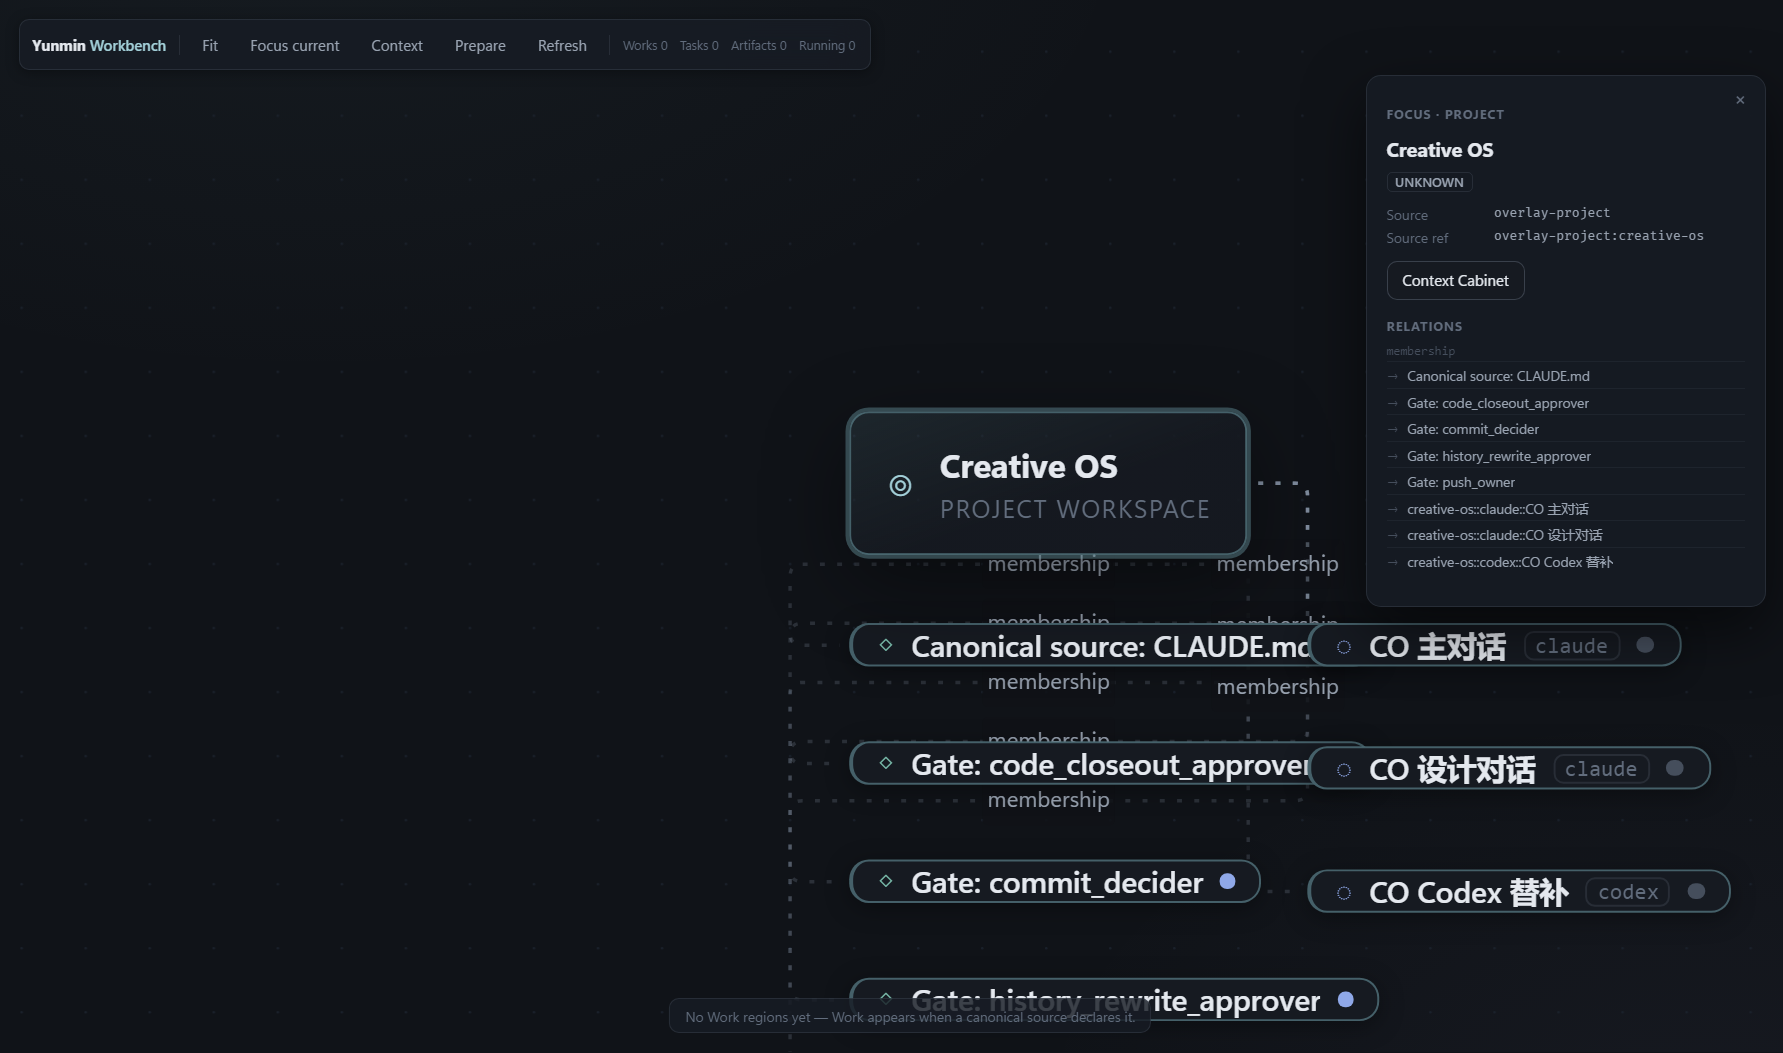
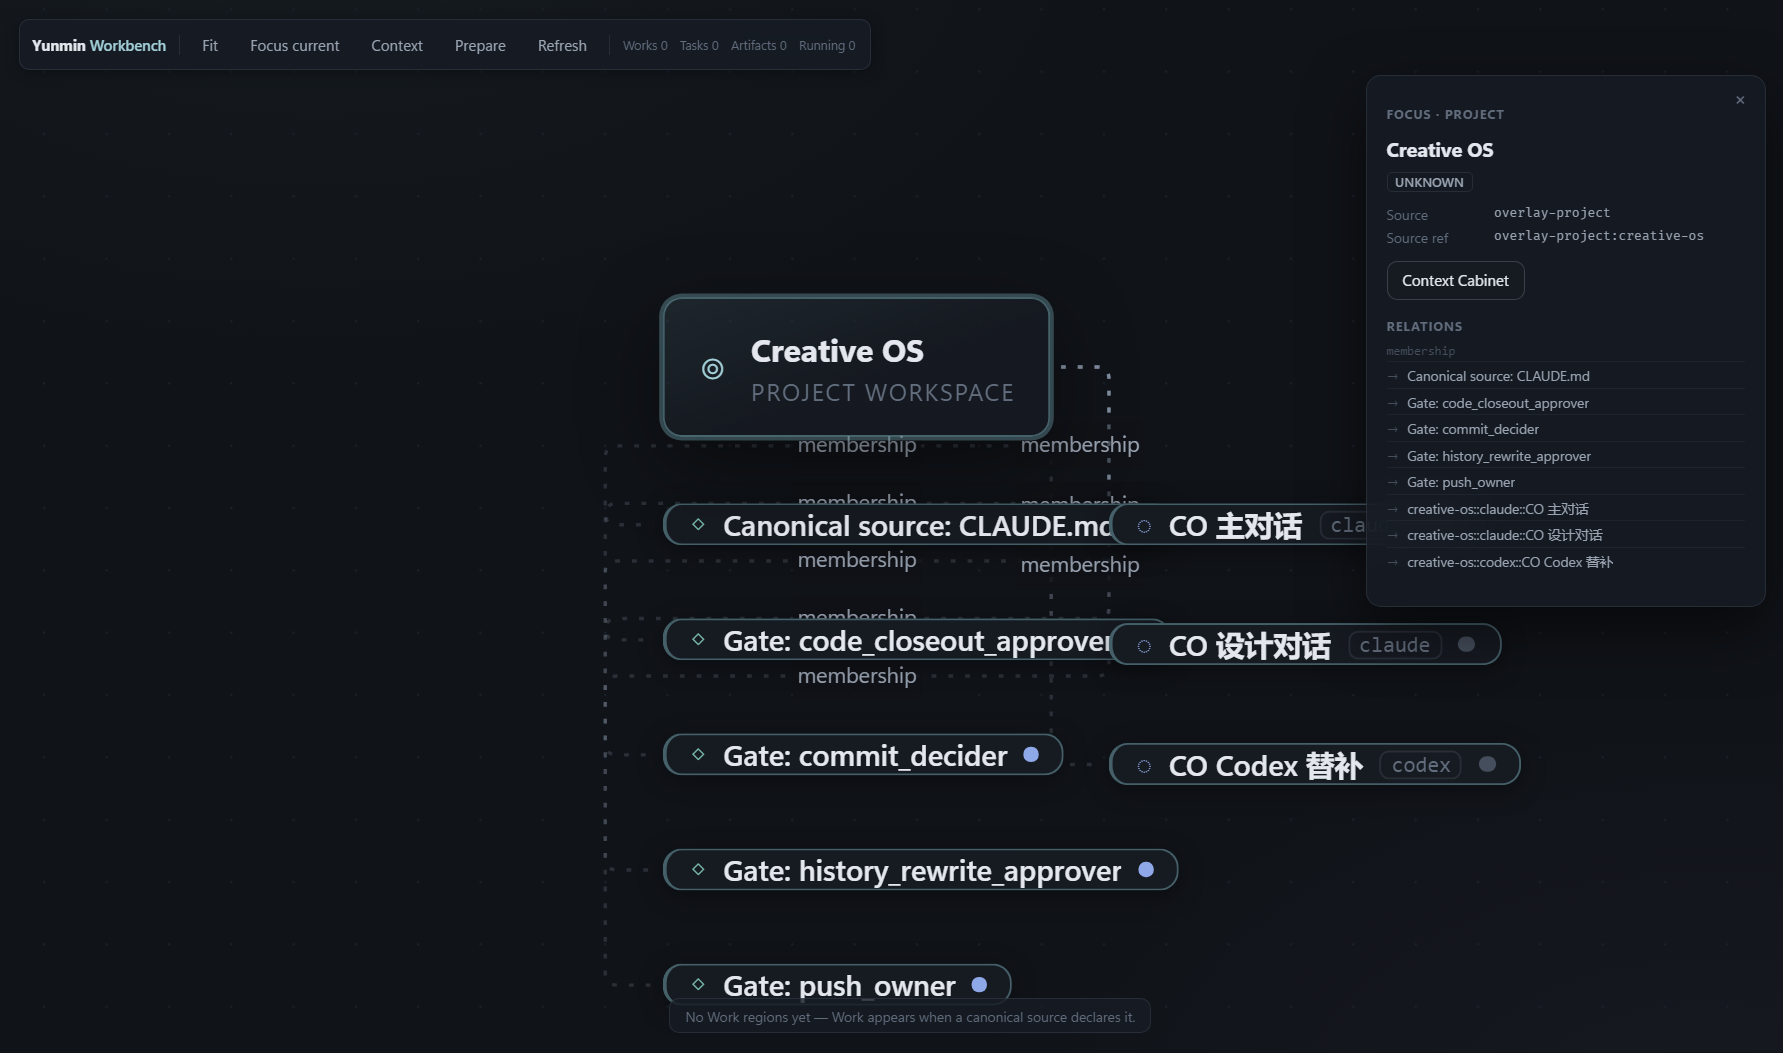
feat: unify compact product surface

diff --git a/e2e/dispatch-prepare-real.spec.ts b/e2e/dispatch-prepare-real.spec.ts
@@ -100,8 +100,10 @@ test('headed real canonical Task prepares an explicit dispatch and stops before 
     await taskNode.click();
     const focusDetail = win.getByRole('complementary', { name: 'Focus Detail' });
     await expect(focusDetail).toBeVisible();
-    // Canonical manifest declares no lifecycle: the honest state is UNKNOWN.
-    await expect(focusDetail).toContainText('unknown');
+    // Canonical manifest declares no lifecycle: the UI shows no fabricated
+    // lifecycle claim (UNKNOWN stays out of the chips entirely).
+    await expect(focusDetail).toContainText('定义主/渲染共享类型');
+    await expect(focusDetail).not.toContainText('unknown');
 
     await win.getByRole('button', { name: 'Prepare', exact: true }).click();
     const surface = win.getByRole('region', { name: 'Dispatch' });

diff --git a/src/renderer-vnext/src/components/canvas/WorkGraphCanvas.tsx b/src/renderer-vnext/src/components/canvas/WorkGraphCanvas.tsx
@@ -105,7 +105,7 @@ function FocusDetailPanel({ detail, onClose, onPrepare, onOpenCabinet }: {
         )}
         {detail.taskState && detail.taskState !== 'unknown' && <span className="wb-chip">{detail.taskState}</span>}
         {detail.runtimeState && <span className="wb-chip is-blue">{detail.runtimeState}</span>}
-        {detail.attentionState && detail.attentionState !== 'none' && <span className="wb-chip is-amber">{detail.attentionState}</span>}
+        {detail.attentionState && detail.attentionState !== 'none' && detail.attentionState !== 'unknown' && <span className="wb-chip is-amber">{detail.attentionState}</span>}
       </div>
       <dl className="focus-meta">
         <dt>Source</dt><dd className="wb-mono">{detail.source}</dd>

diff --git a/tests/main/compactWindow.test.ts b/tests/main/compactWindow.test.ts
@@ -124,7 +124,7 @@ describe('Compact window bounds (multi-monitor / DPI clamping)', () => {
     expect(bounds.y).toBe(12);
     expect(bounds.x + bounds.width).toBeLessThanOrEqual(WORK_AREA.width);
     const expanded = defaultCompactBounds(WORK_AREA, true);
-    expect(expanded.height).toBe(320);
+    expect(expanded.height).toBe(380);
   });
 
   it('restores persisted bounds onto the containing display and clamps invalid ones', () => {
